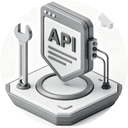
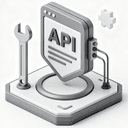
feat: 替换图标，实现切换时图标变换

Changed region(s): [[0.7812, 0.6875, 1.0, 0.9062], [0.7812, 0.0625, 0.9062, 0.1875], [0.0312, 0.6875, 0.125, 0.8438]]

diff --git a/src/pages/options/components/navButtons/NavButtons.tsx b/src/pages/options/components/navButtons/NavButtons.tsx
@@ -18,7 +18,7 @@ const NavButtons: React.FC<OperateButtonsProps> = () => {
   const handleToggleGlobal = async (enabled: boolean) => {
     try {
       await ChromeApiService.toggleGlobal(enabled)
-      // await ChromeApiService.updateIcon(enabled)
+      await ChromeApiService.updateIcon(enabled)
       setConfig({ ...config, isGlobalEnabled: enabled })
       message.success(enabled ? "已开启全局代理" : "已关闭全局代理")
     } catch (error) {

diff --git a/src/pages/background/index.ts b/src/pages/background/index.ts
@@ -172,7 +172,7 @@ async function updateDeclarativeRules() {
 async function updateIcon(enabled: boolean) {
   try {
     // 使用正确的32x32像素图标文件
-    const iconPath = enabled ? "icon-32.png" : "dev-icon-32.png"
+    const iconPath = enabled ? "icon-128.png" : "dev-icon-128.png"
     console.log(`Attempting to update icon to: ${iconPath}`)
     
     // 使用chrome.runtime.getURL获取完整的图标路径
